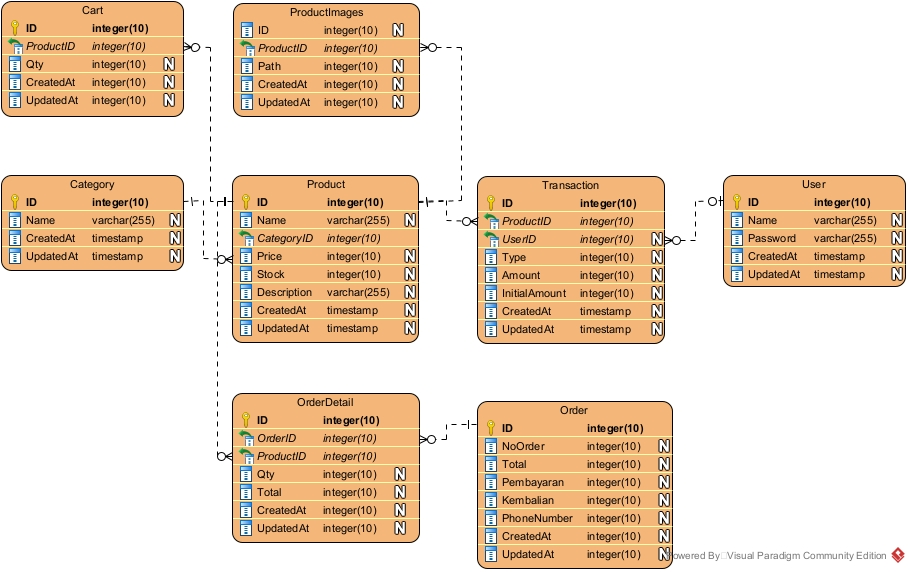
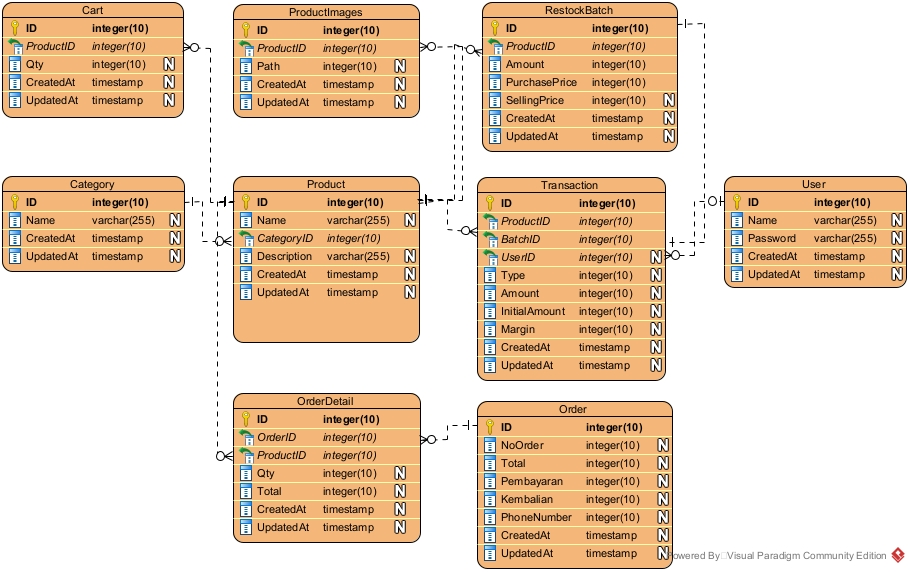
update form input product, restock, and PDM

diff --git a/resources/views/admin/products/form.blade.php b/resources/views/admin/products/form.blade.php
@@ -31,13 +31,21 @@ $formTitle = !empty($category) ? 'Update' : 'Add'
                         'required' => 'required']) !!}
                     </div>
                     <div class="form-group">
-                        {!! Form::label('price', 'Price') !!}
-                        {!! Form::text('price', null, ['class' => 'form-control', 'placeholder' => 'price','required' =>
+                        {!! Form::label('purchase', 'Purchase Price') !!}
+                        {!! Form::text('purchaseprice', null, ['class' => 'form-control', 'placeholder' => 'purchase
+                        price','required' =>
+                        'required']) !!}
+                    </div>
+                    <div class="form-group">
+                        {!! Form::label('selling', 'Selling Price') !!}
+                        {!! Form::text('sellingprice', null, ['class' => 'form-control', 'placeholder' => 'selling
+                        price','required' =>
                         'required']) !!}
                     </div>
                     <div class="form-group">
                         {!! Form::label('category_ids', 'Category') !!}
-                        {!! Form::select('category_id', $categories, null, ['placeholder' => 'Chose Category', 'required'
+                        {!! Form::select('category_id', $categories, null, ['placeholder' => 'Chose Category',
+                        'required'
                         => 'required']); !!}
                     </div>
 

diff --git a/resources/views/admin/transactions/form.blade.php b/resources/views/admin/transactions/form.blade.php
@@ -22,11 +22,16 @@ $formTitle = !empty($transaction) ? 'Update' : 'Stok'
                     @else
                     {!! Form::open(['url' => 'admin/transactions']) !!}
                     @endif
+                    {{ Form::hidden('product_id',$product->id) }}
+                    {{ Form::hidden('type',1) }}
                     <div class="form-group">
                         {!! Form::label('jumlah', 'Jumlah') !!}
-                        {{ Form::hidden('product_id',$product->id) }}
-                        {{ Form::hidden('type',1) }}
                         {!! Form::text('amount', null, ['class' => 'form-control', 'placeholder' => 'Jumlah stok masuk
+                        ','required' => 'required']) !!}
+                    </div>
+                    <div class="form-group">
+                        {!! Form::label('harga', 'Harga') !!}
+                        {!! Form::text('price', $product->price, ['class' => 'form-control', 'placeholder' => 'Harga
                         ','required' => 'required']) !!}
                     </div>
                     <div class="form-footer pt-5 border-top">
